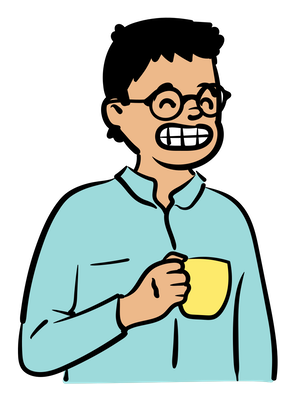
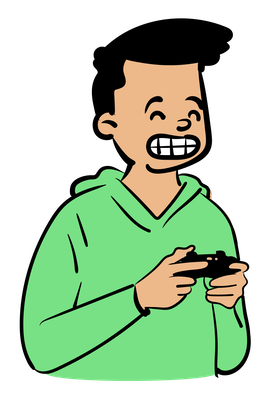
Agregado modificaciones

diff --git a/index.html b/index.html
@@ -33,12 +33,12 @@
     <div class="half-section">
      <div class="avatar-container">
       <img src="./assets/avatar.png" alt="">
-      <h3>"Yo, disfrutando de mi café..."</h3>
+      <h3>"Yo, jugando un poco..."</h3>
      </div>
     </div>
     <div class="half-section text-section">
       <div class="introduction">
-        <h1 class="title">Hola!, <br> Gustavo Ordoñez </h1>
+        <h1 class="title">Hola!, <br> Soy Gustavo Ordoñez </h1>
         <ul class="socials">
           <li><a class="socials-icon" href=""><i class="bi bi-github"></i></a></li>
           <li><a class="socials-icon" href=""><i class="bi bi-linkedin"></i></a></li>
@@ -80,7 +80,7 @@
     <aside class="half-section text-section">
         <ul class="project-list">
           <li>
-            <h3>Proyecto 1</h3>
+            <h3>Sistema de compra-venta</h3>
             <p>
               Lorem ipsum dolor sit amet, consectetur adipisicing elit.
               Quisquam, quidem, quisquam.
@@ -89,7 +89,7 @@
             <a class="project-link" href="#"><i class="bi bi-github"></i> Ver más</a>
           </li>
           <li>
-            <h3>Proyecto 2</h3>
+            <h3>Aplicación para asistencias.</h3>
             <p>
               Lorem ipsum dolor sit amet, consectetur adipisicing elit.
               Quisquam, quidem, quisquam.
@@ -98,7 +98,7 @@
             <a class="project-link" href="#"><i class="bi bi-github"></i> Ver más</a>
           </li>
           <li>
-            <h3>Proyecto 3</h3>
+            <h3>Gestor de stock</h3>
             <p>
               Lorem ipsum dolor sit amet, consectetur adipisicing elit.
               Quisquam, quidem, quisquam.
@@ -137,7 +137,7 @@
     </div>
       <div class="footer-section-container">
         <p>
-          &copy; 2022 - <a class="footer-link" href="https://www.linkedin.com">Nombre y Apellido</a>
+          &copy; 2022 - <a class="footer-link" href="https://www.linkedin.com">Gustavo Ordoñez</a>
         </p>
       </div>
   </footer>

diff --git a/styles.css b/styles.css
@@ -1,9 +1,9 @@
 @import url('https://fonts.googleapis.com/css2?family=Manrope:wght@200;400;700;800&display=swap');
 
 :root {
-  --primary-color: #3282B8;
-  --primary-color-dark: #0F4C75;
-  --accent-color: #FFF8F0;
+  --primary-color: #5F7161;
+  --primary-color-dark: #6D8B74;
+  --accent-color: #EFEAD8;
 }
 
 html {
